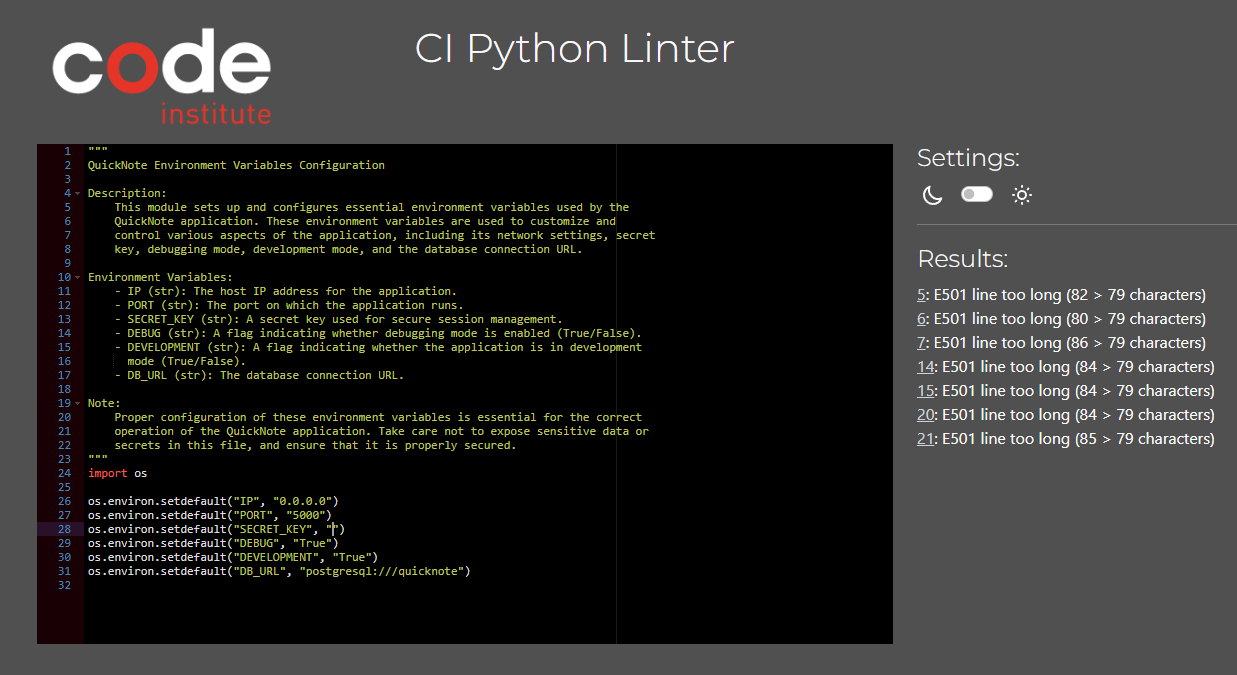
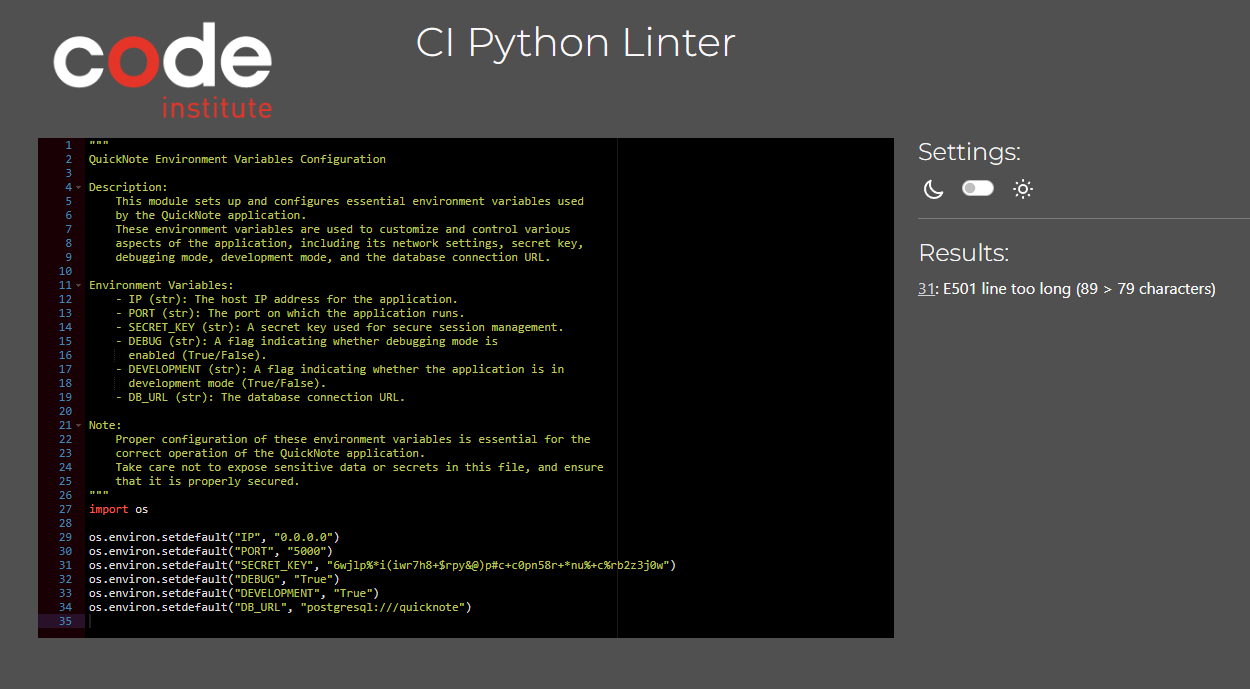
adjusted py files and retested with CI Python Linter added new screenshots of results to readme

Changed region(s): [[0.0307, 0.0311, 0.983, 0.9644], [0.3379, 0.0311, 0.6144, 0.0933]]

diff --git a/quicknote/routes.py b/quicknote/routes.py
@@ -42,8 +42,8 @@ def home():
     form, validates the input, and creates a new user if the data is valid.
     If the email provided already exists in the database, it flashes an
     error message.
-    Otherwise, it checks and validates the input data such as email, first name,
-    last name, and passwords.
+    Otherwise, it checks and validates the input data such as email,
+    first name ,last name, and passwords.
     If all validations pass, a new user is created, added to the database,
     and the user is logged in.
     It then redirects to the 'notes' page after a successful account creation.
@@ -95,34 +95,34 @@ def home():
         # Validating input data
         elif not email or len(email.strip()) < 4:
             flash("The Email must consist of more than 3 characters",
-                category="error")
+                  category="error")
 
         elif len(email.strip()) > 150:
             flash("The Email must consist of less than 150 characters",
-            category="error")
+                  category="error")
 
         elif not first_name or len(first_name.strip()) < 2:
             flash("The First Name must consist of more than 1 character",
-                category="error")
+                  category="error")
 
         elif len(first_name.strip()) > 30:
             flash("The First Name must consist of less than 30 characters",
-            category="error")
+                  category="error")
 
         elif not last_name or len(last_name.strip()) < 2:
             flash("The Last Name must consist of more than 1 character",
-            category="error")
+                  category="error")
 
         elif len(last_name.strip()) > 30:
             flash("The Last Name must consist of less than 30 characters",
-            category="error")
+                  category="error")
 
         elif password1 != password2:
             flash("The Passwords do not match", category="error")
 
         elif not password1 or len(password1.strip()) < 7:
             flash("The Password must be at least 7 characters",
-            category="error")
+                  category="error")
 
         elif len(password1.strip()) > 150:
             flash("The Password is too Long!", category="error")
@@ -225,14 +225,14 @@ def login():
 
     Description:
         This view function handles the login process for users.
-        If the HTTP request method is POST, it attempts to authenticate the user
-        using the provided email and password.
-        If the authentication is successful, the user is logged in and 
-        redirected to the 'notes' view. 
+        If the HTTP request method is POST, it attempts to authenticate the
+        user using the provided email and password.
+        If the authentication is successful, the user is logged in and
+        redirected to the 'notes' view.
         If the email or password is incorrect, appropriate flash messages
         are shown.
-        If the request method is GET, it displays the login page, allowing users
-        to enter their credentials.
+        If the request method is GET, it displays the login page, allowing
+        users to enter their credentials.
 
     Returns:
         A redirection to the 'notes' view after successful login or
@@ -305,8 +305,8 @@ def notes():
         This view function retrieves and displays a list of notes belonging
         to the authenticated user.
         It queries the database to retrieve the user's notes, orders them in
-        descending order of the note's date, and passes the list of notes to the
-        'notes.html' template for rendering.
+        descending order of the note's date, and passes the list of notes to
+        the 'notes.html' template for rendering.
         Users can view and manage their notes through this page.
 
     Returns:
@@ -336,8 +336,8 @@ def add_note():
         It validates that the title and content meet minimum length
         requirements.
         If both conditions are met, a new note is created and added to
-        the database. Users are then redirected to the 'notes' view to see their
-        updated list of notes.
+        the database. Users are then redirected to the 'notes' view to see
+        their updated list of notes.
 
     Returns:
         A redirection to the 'notes' view after adding the new note.

diff --git a/quicknote/models.py b/quicknote/models.py
@@ -31,14 +31,15 @@ class User(db.Model, UserMixin):
         id (int): The unique identifier for the user.
         first_name (str): The user's first name.
         last_name (str): The user's last name.
-        email (str): The user's email address, which is unique and not nullable.
+        email (str): The user's email address, which is unique and
+        not nullable.
         password (str): The hashed password for the user.
         notes (relationship): A relationship to the user's notes.
 
     Description:
         This class represents the User model for the QuickNote application.
-        It defines the schema and attributes for user data, including the user's
-        name, email, password, and related notes.
+        It defines the schema and attributes for user data, including the
+        user's name, email, password, and related notes.
         The 'id' attribute serves as the primary key for identifying individual
         users.
     """

diff --git a/README.md b/README.md
@@ -383,27 +383,23 @@ There are two types of testing methods available: 'Manual' and 'Automated.' Both
 
   - __Results for Init.py__
 
-    Shows "E501 line too long" due to Docstrings
     ![Python Results init.py](docs/validation-results/python_valid_init.jpg)
 
   - __Results for Models.py__
 
-    Shows "E501 line too long" due to Docstrings
     ![Python Results models.py](docs/validation-results/python_valid_models.jpg)
 
   - __Results for Routes.py__
 
-    Shows "E501 line too long" due to Docstrings
     ![Python Results routes.py](docs/validation-results/python_valid_routes.jpg)
 
   - __Results for Env.py__
 
-    Shows "E501 line too long" due to Docstrings
+    Shows "E501 line too long" due to generated SECRET_KEY
     ![Python Results env.py](docs/validation-results/python_valid_env.jpg)
 
   - __Results for Run.py__
 
-    Shows "E501 line too long" due to Docstrings
     ![Python Results run.py](docs/validation-results/python_valid_run.jpg)
 
 ### Manual Testing
